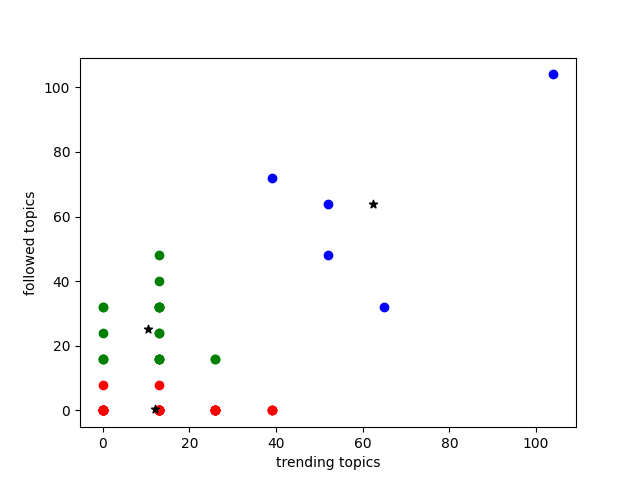
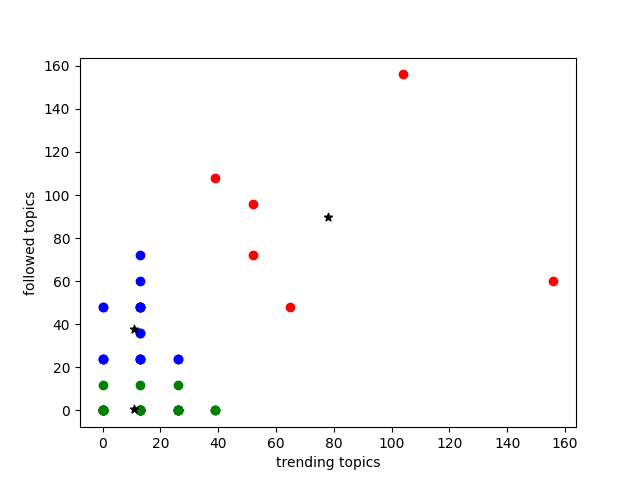
created an update function for realtime topic suggestion

diff --git a/backend/StockTalk/advanced_functionality/suggestTopics.py b/backend/StockTalk/advanced_functionality/suggestTopics.py
@@ -131,7 +131,184 @@ def knn_cluster():
 
 	#print(y_predicted)
 
+	for i in range(len(usernames)):
+		cur.execute("UPDATE UserApp_users SET Cluster = %s WHERE Username = %s", (int(y_predicted[i]), str(usernames[i])))
+		connection.commit()
 
-knn_cluster()
+def updateProfiles():
+	pass
+	'''
+	#get all usernames
+	cur.execute("SELECT Username FROM UserApp_users")
+	result = cur.fetchall()
+	usernames = []
+	for i in range(len(result)):
+		usernames.append(result[i][0])	
+
+	#get all bios
+	cur.execute("SELECT Bio FROM UserApp_users")
+	result = cur.fetchall()
+	bios = []
+	for i in range(len(result)):
+		bios.append(result[i][0])	
+
+	#get all users with profile
+	cur.execute("SELECT Username FROM ProfileApp_profiles")
+	result = cur.fetchall()
+	profiles = []
+	for i in range(len(result)):
+		profiles.append(result[i][0])	
+
+
+	for i in range(len(usernames)):
+		if usernames[i] not in profiles:
+			image = 'default.png'
+			cur.execute("INSERT IGNORE INTO ProfileApp_profiles(Username, Bio, ProfileImage) VALUES (%s, %s, %s)", (usernames[i], bios[i], image))
+			connection.commit()
+
+	'''
+	'''
+	#get all usernames
+	cur.execute("SELECT Username FROM UserApp_users")
+	result = cur.fetchall()
+	usernames = []
+	for i in range(len(result)):
+		usernames.append(result[i][0])	
+
+	#get all bios
+	cur.execute("SELECT Bio FROM UserApp_users")
+	result = cur.fetchall()
+	bios = []
+	for i in range(len(result)):
+		bios.append(result[i][0])
+
+	for i in range(len(bios)):
+		if bios[i] == None:
+			cur.execute("UPDATE ProfileApp_profiles SET Bio = 'my bio' WHERE Username = %s", (usernames[i]))
+			connection.commit()	
+	'''	
+
+def getTrendingTopics():
+	cur.execute("SELECT TopicName FROM TopicApp_topic WHERE isTrending = 1 ORDER BY TrendingScore DESC")
+	result = cur.fetchall()
+	trending_topics = []
+	for i in range(len(result)):
+		trending_topics.append(result[i][0])
+
+	return trending_topics	
+
+def getFollowedTopics(user):
+	#get topics the user follows
+	cur.execute("SELECT * FROM UserFollowsTopic WHERE Username = %s", user)
+	result = cur.fetchall()
+	followed_topics = []
+	for i in range(len(result)):
+		followed_topics.append(result[i][1])
+
+	return followed_topics
+
+def getAllTopics():
+	#get topics the user follows
+	cur.execute("SELECT TopicName FROM TopicApp_topic")
+	result = cur.fetchall()
+	all_topics = []
+	for i in range(len(result)):
+		all_topics.append(result[i][0])
+
+	return all_topics
+
+
+#needs to be called on every keystroke
+def update(user, post_text):
+	#get cluster for user
+	cur.execute("SELECT Cluster FROM UserApp_users WHERE Username = %s", user)
+	cluster = cur.fetchone()[0]
+	suggested_topics = []
+	trending_topics = getTrendingTopics()	
+	followed_topics = getFollowedTopics(user)
+	all_topics = getAllTopics()
+
+	#search for # symbol
+	pattern = '#[a-zA-Z]+'
+	hashtag = re.search(pattern, post_text)
+
+	#default suggestion depends on knn cluster result
+	if hashtag == None:
+		#if cluster is 0, user posts about trending topics often
+		if cluster == 0:
+			return trending_topics
+
+		#if cluster is 1, user posts about trending topics and followed topics evenly
+		if cluster == 1:
+			for topic in trending_topics:
+				suggested_topics.append(topic)
+			for topic in followed_topics:
+				suggested_topics.append(topic)
+
+			suggest_ten_topics = []
+			for i in range(10):
+				random.sample(suggested_topics, k=10)
+			return suggest_ten_topics
+
+		#if cluster is 2, user posts about followed topics often
+		if cluster == 2:
+			return followed_topics
+
+	else:
+		potential_topic = re.findall(pattern, post_text)[0][1:].lower()
+		pattern = '^' + potential_topic
+		#print(potential_topic)
+		#if cluster is 0, user posts about trending topics often
+		if cluster == 0:
+			for topic in trending_topics:
+				match = re.search(pattern, topic.lower())
+				if match != None:
+					suggested_topics.append(topic)
+
+			for topic in all_topics:
+				match = re.search(pattern, topic.lower())
+				if match != None and topic not in suggested_topics:
+					suggested_topics.append(topic)
+					
+		#if cluster is 1, user posts about trending topics and followed topics evenly
+		if cluster == 1:
+
+			for topic in trending_topics:
+				match = re.search(pattern, topic.lower())
+				if match != None:
+					suggested_topics.append(topic)
+
+			for topic in followed_topics:
+				match = re.search(pattern, topic.lower())
+				if match != None and topic not in suggested_topics:
+					suggested_topics.append(topic)
+
+			for topic in all_topics:
+				match = re.search(pattern, topic.lower())
+				if match != None and topic not in suggested_topics:
+					suggested_topics.append(topic)
+			
+		#if cluster is 2, user posts about followed topics often
+		if cluster == 2:
+
+			for topic in followed_topics:
+				match = re.search(pattern, topic.lower())
+				if match != None and topic not in suggested_topics:
+					suggested_topics.append(topic)
+
+			for topic in all_topics:
+				match = re.search(pattern, topic.lower())
+				if match != None and topic not in suggested_topics:
+					suggested_topics.append(topic)
+
+		#print(suggested_topics[:10])
+		return suggested_topics[:10]
+
+
+user = '9O8fes'
+text = '# #1 #/ #cs hku 8y 9hui #sdgvbasd'
+update(user, text)
+#updateProfiles()
+#knn_cluster()
 
 
